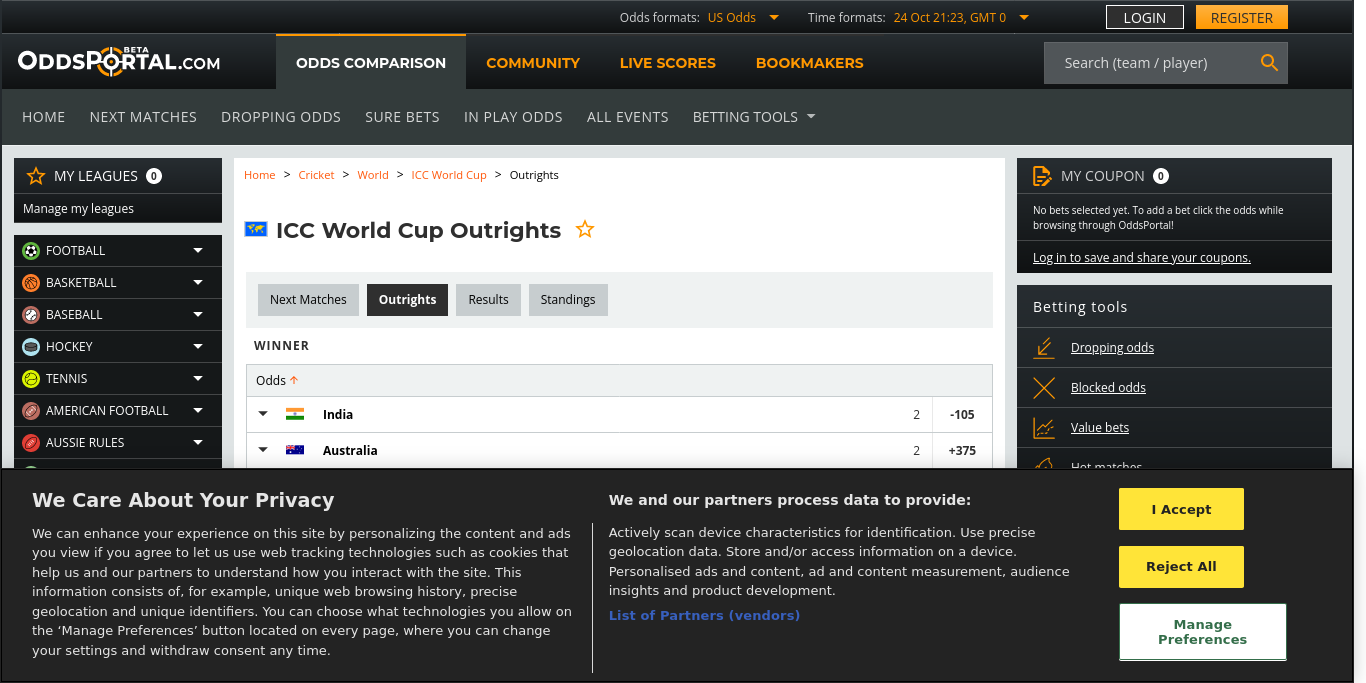
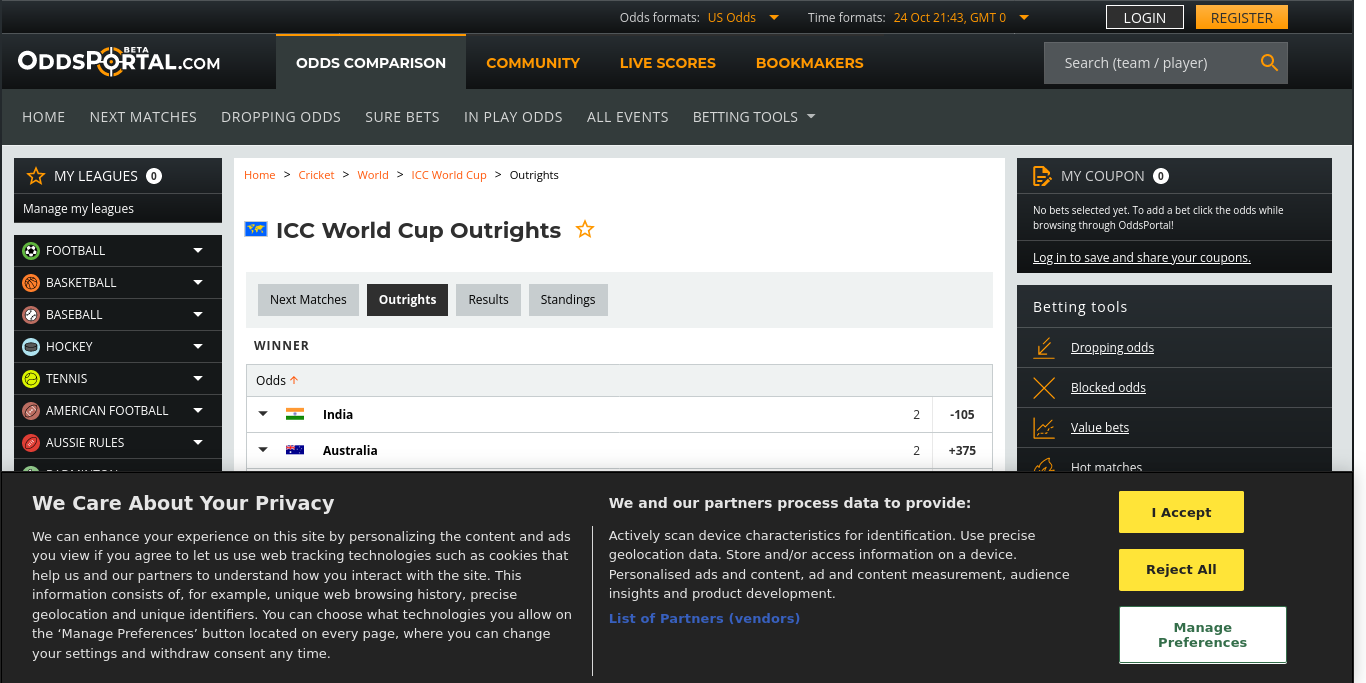
Update Data (Cron) Tue Oct 24 21:43:34 UTC 2023

Changed region(s): [[0.0307, 0.6764, 0.9531, 0.9839], [0.9531, 0.6764, 0.9839, 0.7072], [0.0, 0.6764, 0.0307, 0.7072]]

diff --git a/src/nonview/constants/VERSION.js b/src/nonview/constants/VERSION.js
@@ -1,4 +1,4 @@
 // Auto-generated by javascript_version.py
-export const VERSION_UT = 1698182632;
+export const VERSION_UT = 1698183814;
 export const VERSION_DATETIME = new Date(VERSION_UT * 1_000);
 export const LAST_COMMIT_MESSAGE = "Updated 📊Data";

diff --git a/src/nonview/data/TEAM_ID_TO_P_WINNER.js b/src/nonview/data/TEAM_ID_TO_P_WINNER.js
@@ -1,6 +1,6 @@
 // Auto Generated by UpdateTeamIDToPWinner
 // https://www.oddsportal.com/cricket/world/icc-world-cup/outrights/
-// 2023-10-25 02:53:51 +0000
+// 2023-10-25 03:13:34 +0000
 
 export const TEAM_ID_TO_P_WINNER = {
   IND: 0.432445, // 43%

diff --git a/src/nonview/data/ODI_ID_TO_WINNER.js b/src/nonview/data/ODI_ID_TO_WINNER.js
@@ -1,6 +1,6 @@
 // Auto Generated by UpdateODIIDToWinner
 // https://www.cricbuzz.com/cricket-series/6732/icc-cricket-world-cup-2023/matches
-// 2023-10-25 02:53:26 +0000
+// 2023-10-25 03:13:09 +0000
 
 import { TEAM } from "../core/Team.js";
 

diff --git a/src/nonview/data/TEAM1_ID_TO_TEAM2_ID_TO_ODDS_PAIR.js b/src/nonview/data/TEAM1_ID_TO_TEAM2_ID_TO_ODDS_PAIR.js
@@ -1,6 +1,6 @@
 // Auto Generated by UpdateTeam1IDToTeam2IDToOddsPair
 // https://www.oddsportal.com/cricket/world/icc-world-cup/
-// 2023-10-25 02:53:43 +0000
+// 2023-10-25 03:13:26 +0000
 
 import { TEAM } from "../core/Team.js";
 

diff --git a/src/nonview/data/POINTS_TABLE.js b/src/nonview/data/POINTS_TABLE.js
@@ -1,6 +1,6 @@
 // Auto Generated by UpdatePointsTable
 // https://www.cricketworldcup.com/standings
-// 2023-10-25 02:53:35 +0000
+// 2023-10-25 03:13:18 +0000
 
 import { TEAM } from "../core/Team.js";
 
